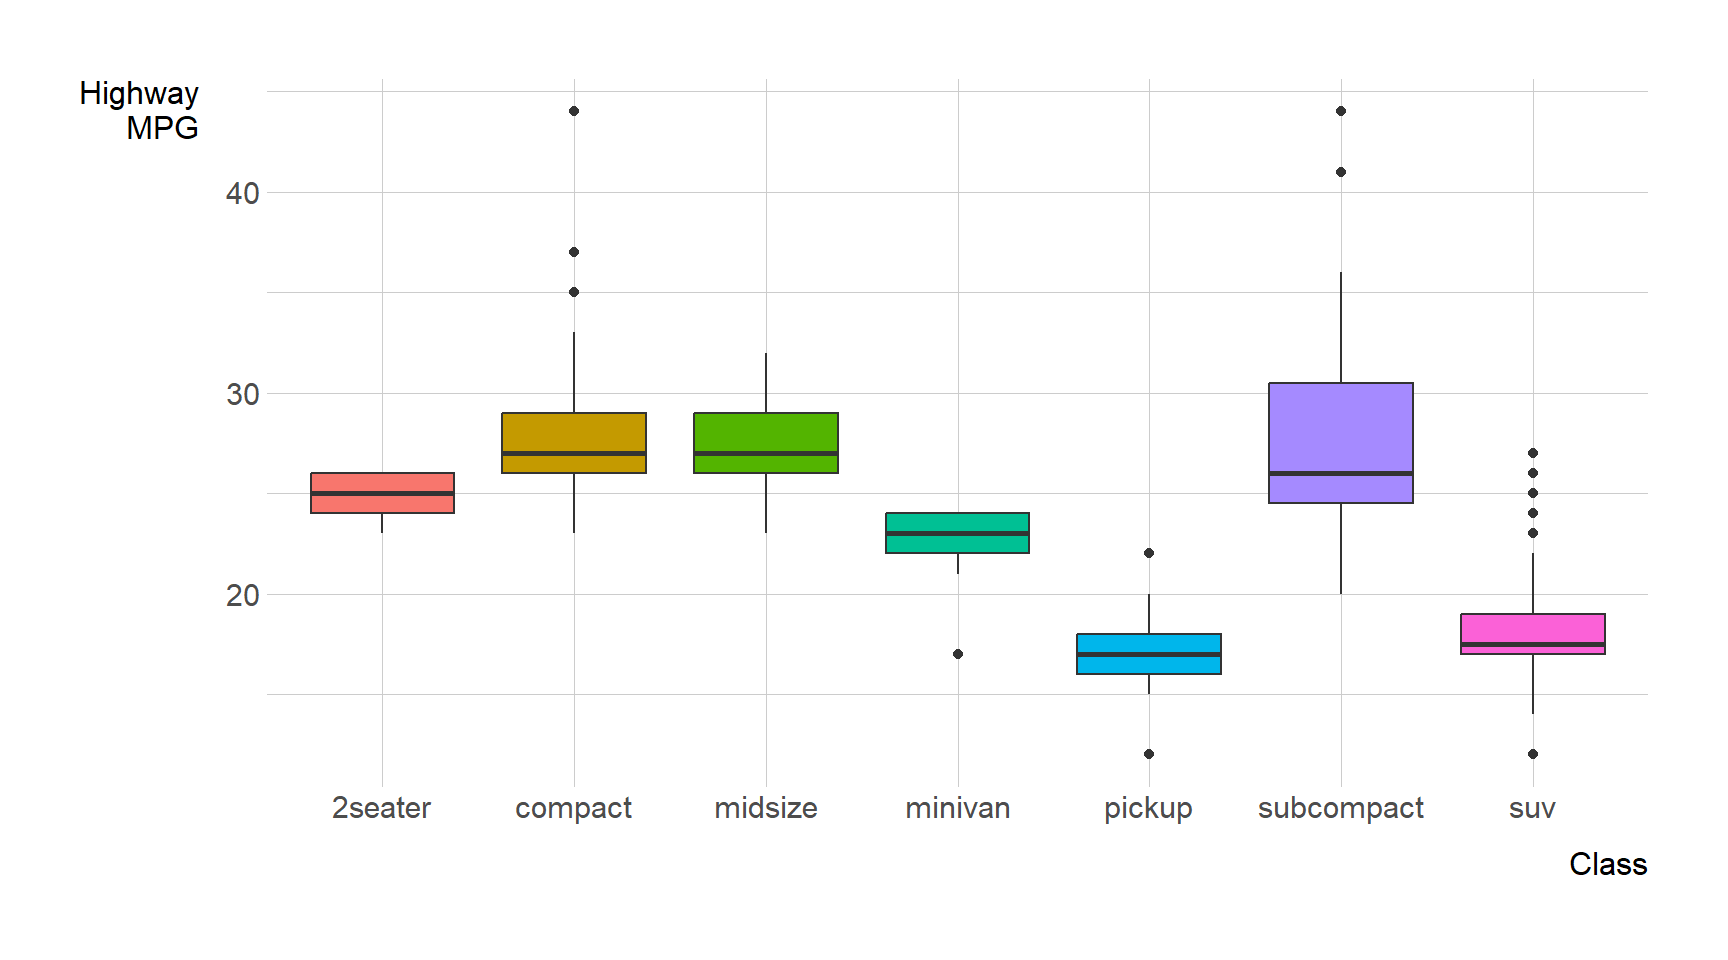
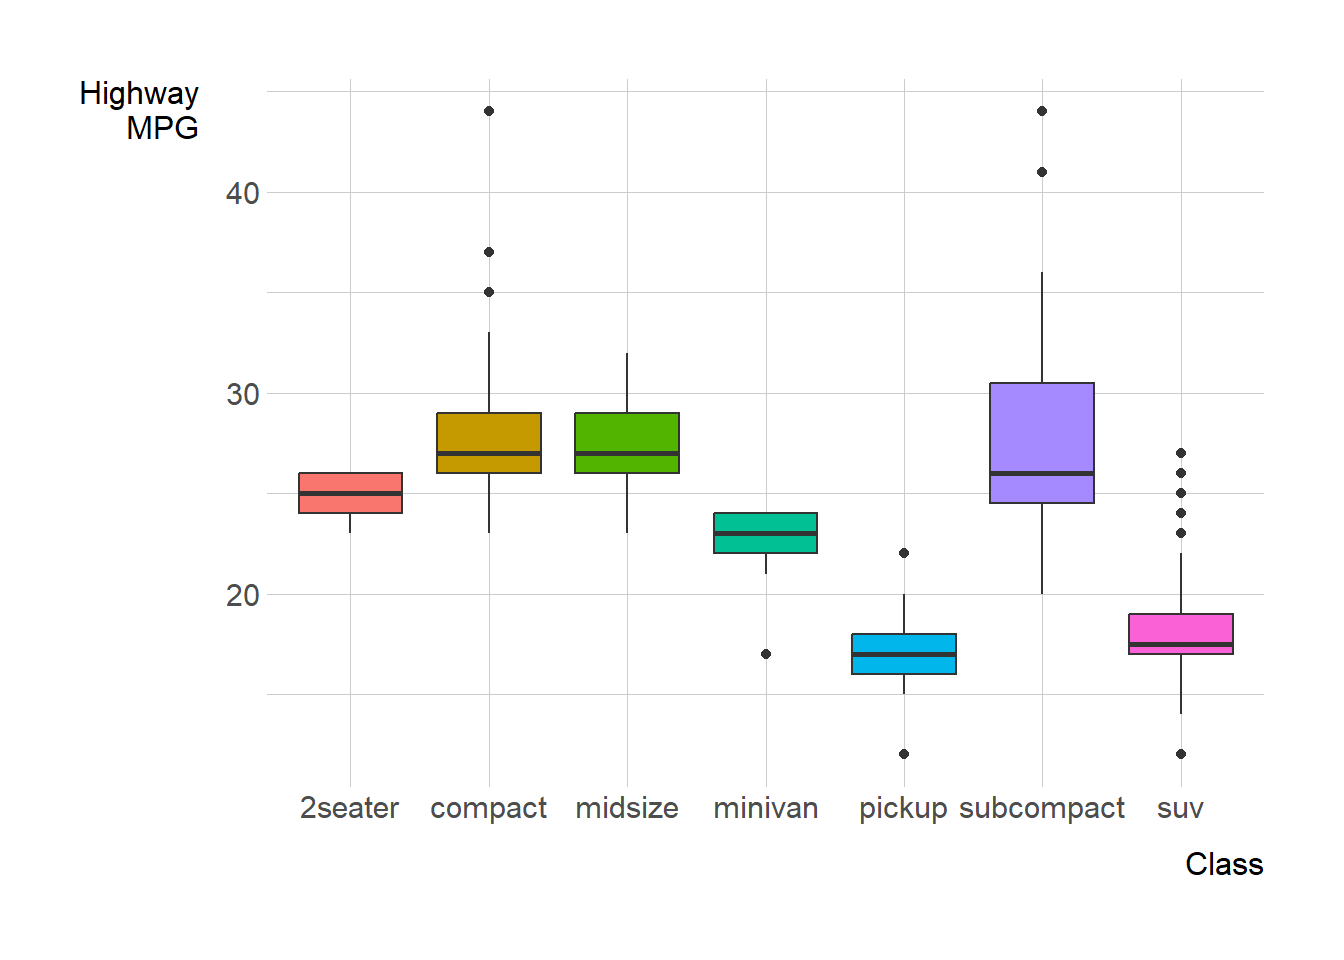
ANY MESSAGE

diff --git a/project.html b/project.html
@@ -6,13 +6,8 @@
 
 <meta name="viewport" content="width=device-width, initial-scale=1.0, user-scalable=yes">
 
-<meta name="author" content="Name 1">
-<meta name="author" content="Name 2">
-<meta name="author" content="Name 3">
-<meta name="author" content="Name 4">
-<meta name="author" content="Name 5">
 
-<title>Gannon Moore - DANL Project</title>
+<title>Gannon Moore – project</title>
 <style>
 code{white-space: pre-wrap;}
 span.smallcaps{font-variant: small-caps;}
@@ -107,7 +102,7 @@ pre > code.sourceCode > span > a:first-child::before { text-decoration: underlin
 <link rel="stylesheet" href="styles.css">
 </head>
 
-<body class="nav-fixed">
+<body class="nav-fixed fullcontent">
 
 <div id="quarto-search-results"></div>
   <header id="quarto-header" class="headroom fixed-top">
@@ -144,54 +139,15 @@ pre > code.sourceCode > span > a:first-child::before { text-decoration: underlin
 <div id="quarto-content" class="quarto-container page-columns page-rows-contents page-layout-article page-navbar">
 <!-- sidebar -->
 <!-- margin-sidebar -->
-    <div id="quarto-margin-sidebar" class="sidebar margin-sidebar">
-        <nav id="TOC" role="doc-toc" class="toc-active">
-    <h2 id="toc-title">Table of Contents</h2>
-   
-  <ul class="collapse">
-  <li><a href="#introduction" id="toc-introduction" class="nav-link active" data-scroll-target="#introduction"><span class="header-section-number">1</span> Introduction</a></li>
-  <li><a href="#data" id="toc-data" class="nav-link" data-scroll-target="#data"><span class="header-section-number">2</span> Data</a>
-  <ul class="collapse">
-  <li><a href="#summary-statistics" id="toc-summary-statistics" class="nav-link" data-scroll-target="#summary-statistics"><span class="header-section-number">2.1</span> Summary Statistics</a></li>
-  <li><a href="#mpg-and-a-type-of-cars" id="toc-mpg-and-a-type-of-cars" class="nav-link" data-scroll-target="#mpg-and-a-type-of-cars"><span class="header-section-number">2.2</span> MPG and a Type of Cars</a></li>
-  </ul></li>
-  </ul>
-</nav>
-    </div>
+    
 <!-- main -->
 <main class="content" id="quarto-document-content">
 
-<header id="title-block-header" class="quarto-title-block default">
-<div class="quarto-title">
-<h1 class="title">DANL Project</h1>
-<p class="subtitle lead">Data-Driven Mastery: Unlocking Business Potential</p>
-</div>
 
 
-
-<div class="quarto-title-meta">
-
-    <div>
-    <div class="quarto-title-meta-heading">Authors</div>
-    <div class="quarto-title-meta-contents">
-             <p>Name 1 </p>
-             <p>Name 2 </p>
-             <p>Name 3 </p>
-             <p>Name 4 </p>
-             <p>Name 5 </p>
-          </div>
-  </div>
-    
-  
-    
-  </div>
-  
-
-</header>
-
-<section id="introduction" class="level1" data-number="1">
-<h1 data-number="1"><span class="header-section-number">1</span> Introduction</h1>
-<p>About this project <span class="emoji" data-emoji="clap">👏</span></p>
+<section id="introduction" class="level1">
+<h1>Introduction</h1>
+<p>About this project :clap:</p>
 <div class="cell">
 <div class="sourceCode cell-code" id="cb1"><pre class="sourceCode r code-with-copy"><code class="sourceCode r"><span id="cb1-1"><a href="#cb1-1" aria-hidden="true" tabindex="-1"></a><span class="dv">1</span> <span class="sc">+</span> <span class="dv">1</span></span></code><button title="Copy to Clipboard" class="code-copy-button"><i class="bi"></i></button></pre></div>
 <div class="cell-output cell-output-stdout">
@@ -199,11 +155,11 @@ pre > code.sourceCode > span > a:first-child::before { text-decoration: underlin
 </div>
 </div>
 </section>
-<section id="data" class="level1" data-number="2">
-<h1 data-number="2"><span class="header-section-number">2</span> Data</h1>
-<p>The data.frame <code>mpg</code> contains a subset of the fuel economy data that the EPA makes available on <a href="https://fueleconomy.gov/">https://fueleconomy.gov/</a>. It contains only models which had a new release every year between 1999 and 2008 - this was used as a proxy for the popularity of the car. <span class="emoji" data-emoji="oncoming_automobile">🚘</span></p>
-<section id="summary-statistics" class="level2" data-number="2.1">
-<h2 data-number="2.1" class="anchored" data-anchor-id="summary-statistics"><span class="header-section-number">2.1</span> Summary Statistics</h2>
+<section id="data" class="level1">
+<h1>Data</h1>
+<p>The data.frame <code>mpg</code> contains a subset of the fuel economy data that the EPA makes available on <a href="https://fueleconomy.gov/">https://fueleconomy.gov/</a>. It contains only models which had a new release every year between 1999 and 2008 - this was used as a proxy for the popularity of the car. :oncoming_automobile:</p>
+<section id="summary-statistics" class="level2">
+<h2 class="anchored" data-anchor-id="summary-statistics">Summary Statistics</h2>
 <div class="cell">
 <div class="sourceCode cell-code" id="cb3"><pre class="sourceCode r code-with-copy"><code class="sourceCode r"><span id="cb3-1"><a href="#cb3-1" aria-hidden="true" tabindex="-1"></a>mpg <span class="ot">&lt;-</span> ggplot2<span class="sc">::</span>mpg</span></code><button title="Copy to Clipboard" class="code-copy-button"><i class="bi"></i></button></pre></div>
 </div>
@@ -424,16 +380,42 @@ pre > code.sourceCode > span > a:first-child::before { text-decoration: underlin
 </div>
 </div>
 </section>
-<section id="mpg-and-a-type-of-cars" class="level2" data-number="2.2">
-<h2 data-number="2.2" class="anchored" data-anchor-id="mpg-and-a-type-of-cars"><span class="header-section-number">2.2</span> MPG and a Type of Cars</h2>
-<p>The following boxplot shows how the distribution of highway MPG (<code>hwy</code>) varies by a type of cars (<code>class</code>) <span class="emoji" data-emoji="blue_car">🚙</span> <span class="emoji" data-emoji="truck">🚚</span> <span class="emoji" data-emoji="minibus">🚐</span>.</p>
+<section id="mpg-and-a-type-of-cars" class="level2">
+<h2 class="anchored" data-anchor-id="mpg-and-a-type-of-cars">MPG and a Type of Cars</h2>
+<p>The following boxplot shows how the distribution of highway MPG (<code>hwy</code>) varies by a type of cars (<code>class</code>) :blue_car: :truck: :minibus:.</p>
 <div class="cell">
 <div class="sourceCode cell-code" id="cb5"><pre class="sourceCode r code-with-copy"><code class="sourceCode r"><span id="cb5-1"><a href="#cb5-1" aria-hidden="true" tabindex="-1"></a><span class="fu">ggplot</span>(<span class="at">data =</span> mpg) <span class="sc">+</span></span>
 <span id="cb5-2"><a href="#cb5-2" aria-hidden="true" tabindex="-1"></a>  <span class="fu">geom_boxplot</span>(<span class="fu">aes</span>(<span class="at">x =</span> class, <span class="at">y =</span> hwy, <span class="at">fill =</span> class),</span>
 <span id="cb5-3"><a href="#cb5-3" aria-hidden="true" tabindex="-1"></a>               <span class="at">show.legend =</span> F) <span class="sc">+</span></span>
 <span id="cb5-4"><a href="#cb5-4" aria-hidden="true" tabindex="-1"></a>  <span class="fu">labs</span>(<span class="at">x =</span> <span class="st">"Class"</span>, <span class="at">y =</span> <span class="st">"Highway</span><span class="sc">\n</span><span class="st">MPG"</span>) </span></code><button title="Copy to Clipboard" class="code-copy-button"><i class="bi"></i></button></pre></div>
+<div class="cell-output cell-output-stderr">
+<pre><code>Warning in grid.Call(C_stringMetric, as.graphicsAnnot(x$label)): font family
+not found in Windows font database
+
+Warning in grid.Call(C_stringMetric, as.graphicsAnnot(x$label)): font family
+not found in Windows font database</code></pre>
+</div>
+<div class="cell-output cell-output-stderr">
+<pre><code>Warning in grid.Call(C_textBounds, as.graphicsAnnot(x$label), x$x, x$y, : font
+family not found in Windows font database
+
+Warning in grid.Call(C_textBounds, as.graphicsAnnot(x$label), x$x, x$y, : font
+family not found in Windows font database
+
+Warning in grid.Call(C_textBounds, as.graphicsAnnot(x$label), x$x, x$y, : font
+family not found in Windows font database
+
+Warning in grid.Call(C_textBounds, as.graphicsAnnot(x$label), x$x, x$y, : font
+family not found in Windows font database
+
+Warning in grid.Call(C_textBounds, as.graphicsAnnot(x$label), x$x, x$y, : font
+family not found in Windows font database
+
+Warning in grid.Call(C_textBounds, as.graphicsAnnot(x$label), x$x, x$y, : font
+family not found in Windows font database</code></pre>
+</div>
 <div class="cell-output-display">
-<p><img src="project_files/figure-html/unnamed-chunk-5-1.png" class="img-fluid" width="864"></p>
+<p><img src="project_files/figure-html/unnamed-chunk-5-1.png" class="img-fluid" width="672"></p>
 </div>
 </div>
 

diff --git a/blog-listing.html b/blog-listing.html
@@ -136,7 +136,7 @@ ul.task-list li input[type="checkbox"] {
 <!-- sidebar -->
 <!-- margin-sidebar -->
     <div id="quarto-margin-sidebar" class="sidebar margin-sidebar">
-    <h5 class="quarto-listing-category-title">Categories</h5><div class="quarto-listing-category category-default"><div class="category" data-category="">All <span class="quarto-category-count">(5)</span></div><div class="category" data-category="City">City <span class="quarto-category-count">(2)</span></div><div class="category" data-category="New York">New York <span class="quarto-category-count">(1)</span></div><div class="category" data-category="Songs">Songs <span class="quarto-category-count">(1)</span></div><div class="category" data-category="Team">Team <span class="quarto-category-count">(1)</span></div><div class="category" data-category="beer">beer <span class="quarto-category-count">(1)</span></div><div class="category" data-category="code">code <span class="quarto-category-count">(1)</span></div><div class="category" data-category="data analysis">data analysis <span class="quarto-category-count">(1)</span></div><div class="category" data-category="news">news <span class="quarto-category-count">(1)</span></div></div></div>
+    <h5 class="quarto-listing-category-title">Categories</h5><div class="quarto-listing-category category-default"><div class="category" data-category="">All <span class="quarto-category-count">(5)</span></div><div class="category" data-category="City">City <span class="quarto-category-count">(1)</span></div><div class="category" data-category="New York">New York <span class="quarto-category-count">(1)</span></div><div class="category" data-category="Songs">Songs <span class="quarto-category-count">(1)</span></div><div class="category" data-category="beer">beer <span class="quarto-category-count">(1)</span></div><div class="category" data-category="code">code <span class="quarto-category-count">(1)</span></div><div class="category" data-category="data analysis">data analysis <span class="quarto-category-count">(1)</span></div><div class="category" data-category="news">news <span class="quarto-category-count">(1)</span></div></div></div>
 <!-- main -->
 <main class="content column-page-left" id="quarto-document-content">
 
@@ -188,7 +188,29 @@ ul.task-list li input[type="checkbox"] {
     </div>
 </div>
 <div class="list quarto-listing-default">
-<div class="quarto-post image-right" data-index="0" data-categories="news" data-listing-date-sort="1702357200000" data-listing-file-modified-sort="1702421967221" data-listing-date-modified-sort="NaN" data-listing-reading-time-sort="1">
+<div class="quarto-post image-right" data-index="0" data-listing-file-modified-sort="1702436390432" data-listing-reading-time-sort="5">
+<div class="thumbnail">
+<p><a href="./posts/NFL 2022/NFL.html"> <p class="card-img-top"><img src="posts\NFL 2022\NFL_files\figure-html\unnamed-chunk-7-1.png"  class="thumbnail-image card-img"/></p> </a></p>
+</div>
+<div class="body">
+<a href="./posts/NFL 2022/NFL.html">
+<h3 class="no-anchor listing-title">
+NFL 2022
+</h3>
+<div class="listing-subtitle">
+
+</div>
+</a>
+</div>
+<div class="metadata">
+<a href="./posts/NFL 2022/NFL.html">
+<div class="listing-reading-time">
+5 min
+</div>
+</a>
+</div>
+</div>
+<div class="quarto-post image-right" data-index="1" data-categories="news" data-listing-date-sort="1702357200000" data-listing-file-modified-sort="1702421967221" data-listing-date-modified-sort="NaN" data-listing-reading-time-sort="1">
 <div class="thumbnail">
 <p><a href="./posts/welcome/index.html"> <p class="card-img-top"><img src="posts\welcome\Knight.jpg"  class="thumbnail-image card-img"/></p> </a></p>
 </div>
@@ -216,7 +238,7 @@ Gannon Moore
 </a>
 </div>
 </div>
-<div class="quarto-post image-right" data-index="1" data-categories="Songs" data-listing-date-sort="1702357200000" data-listing-file-modified-sort="1702432221167" data-listing-date-modified-sort="NaN" data-listing-reading-time-sort="3">
+<div class="quarto-post image-right" data-index="2" data-categories="Songs" data-listing-date-sort="1702357200000" data-listing-file-modified-sort="1702432221167" data-listing-date-modified-sort="NaN" data-listing-reading-time-sort="3">
 <div class="thumbnail">
 <p><a href="./posts/post-with-code/index.html"> <img src="./posts/post-with-code/image2.png" class="thumbnail-image"> </a></p>
 </div>
@@ -244,7 +266,7 @@ Gannon Moore
 </a>
 </div>
 </div>
-<div class="quarto-post image-right" data-index="2" data-categories="New York,City" data-listing-date-sort="1702357200000" data-listing-file-modified-sort="1702431183030" data-listing-date-modified-sort="NaN" data-listing-reading-time-sort="2">
+<div class="quarto-post image-right" data-index="3" data-categories="New York,City" data-listing-date-sort="1702357200000" data-listing-file-modified-sort="1702431183030" data-listing-date-modified-sort="NaN" data-listing-reading-time-sort="2">
 <div class="thumbnail">
 <p><a href="./posts/starwars/starwars_df.html"> <img src="./posts/starwars/image2.png" class="thumbnail-image"> </a></p>
 </div>
@@ -268,34 +290,6 @@ Gannon Moore
 </div>
 <div class="listing-reading-time">
 2 min
-</div>
-</a>
-</div>
-</div>
-<div class="quarto-post image-right" data-index="3" data-categories="Team,City" data-listing-date-sort="1702357200000" data-listing-file-modified-sort="1702434546372" data-listing-date-modified-sort="NaN" data-listing-reading-time-sort="4">
-<div class="thumbnail">
-<p><a href="./posts/NFL 2022/NFL.html"> <img src="./posts/NFL 2022/image2.jpg" class="thumbnail-image"> </a></p>
-</div>
-<div class="body">
-<a href="./posts/NFL 2022/NFL.html">
-<h3 class="no-anchor listing-title">
-NFL 2022
-</h3>
-<div class="listing-subtitle">
-
-</div>
-</a>
-</div>
-<div class="metadata">
-<a href="./posts/NFL 2022/NFL.html">
-<div class="listing-date">
-Dec 12, 2023
-</div>
-<div class="listing-author">
-Gannon Moore
-</div>
-<div class="listing-reading-time">
-4 min
 </div>
 </a>
 </div>
